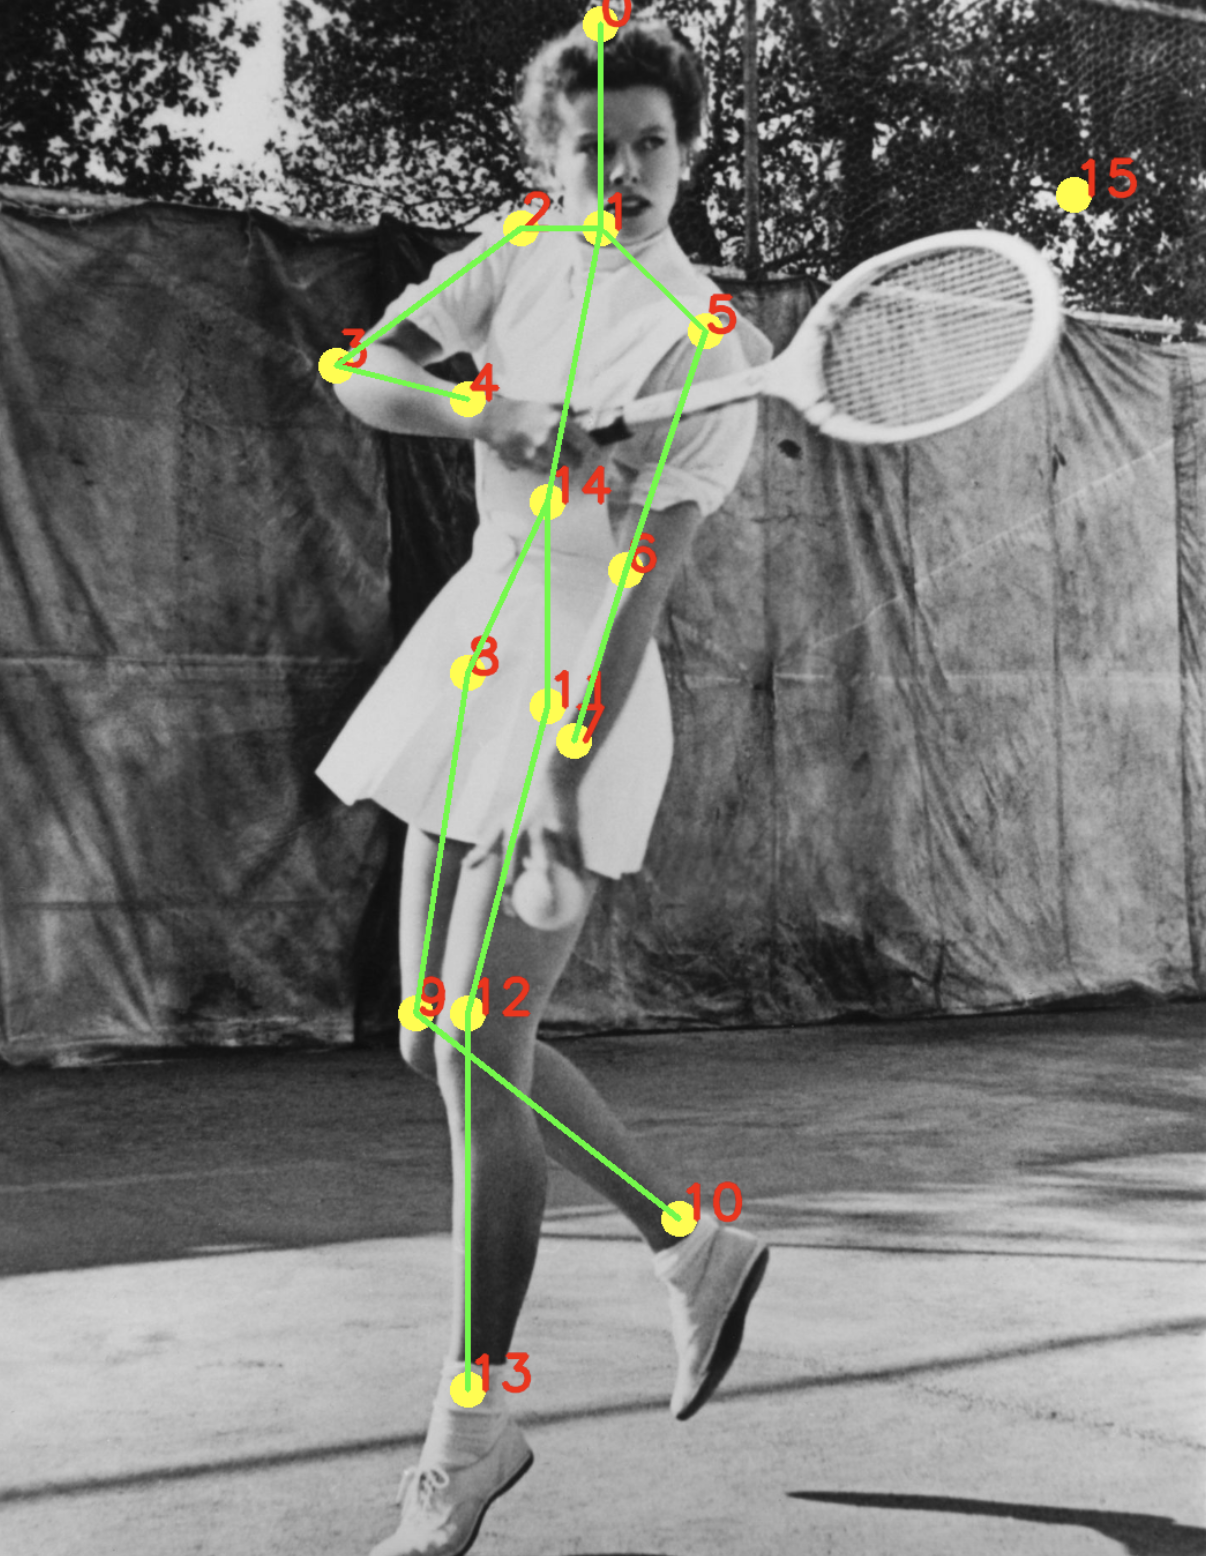
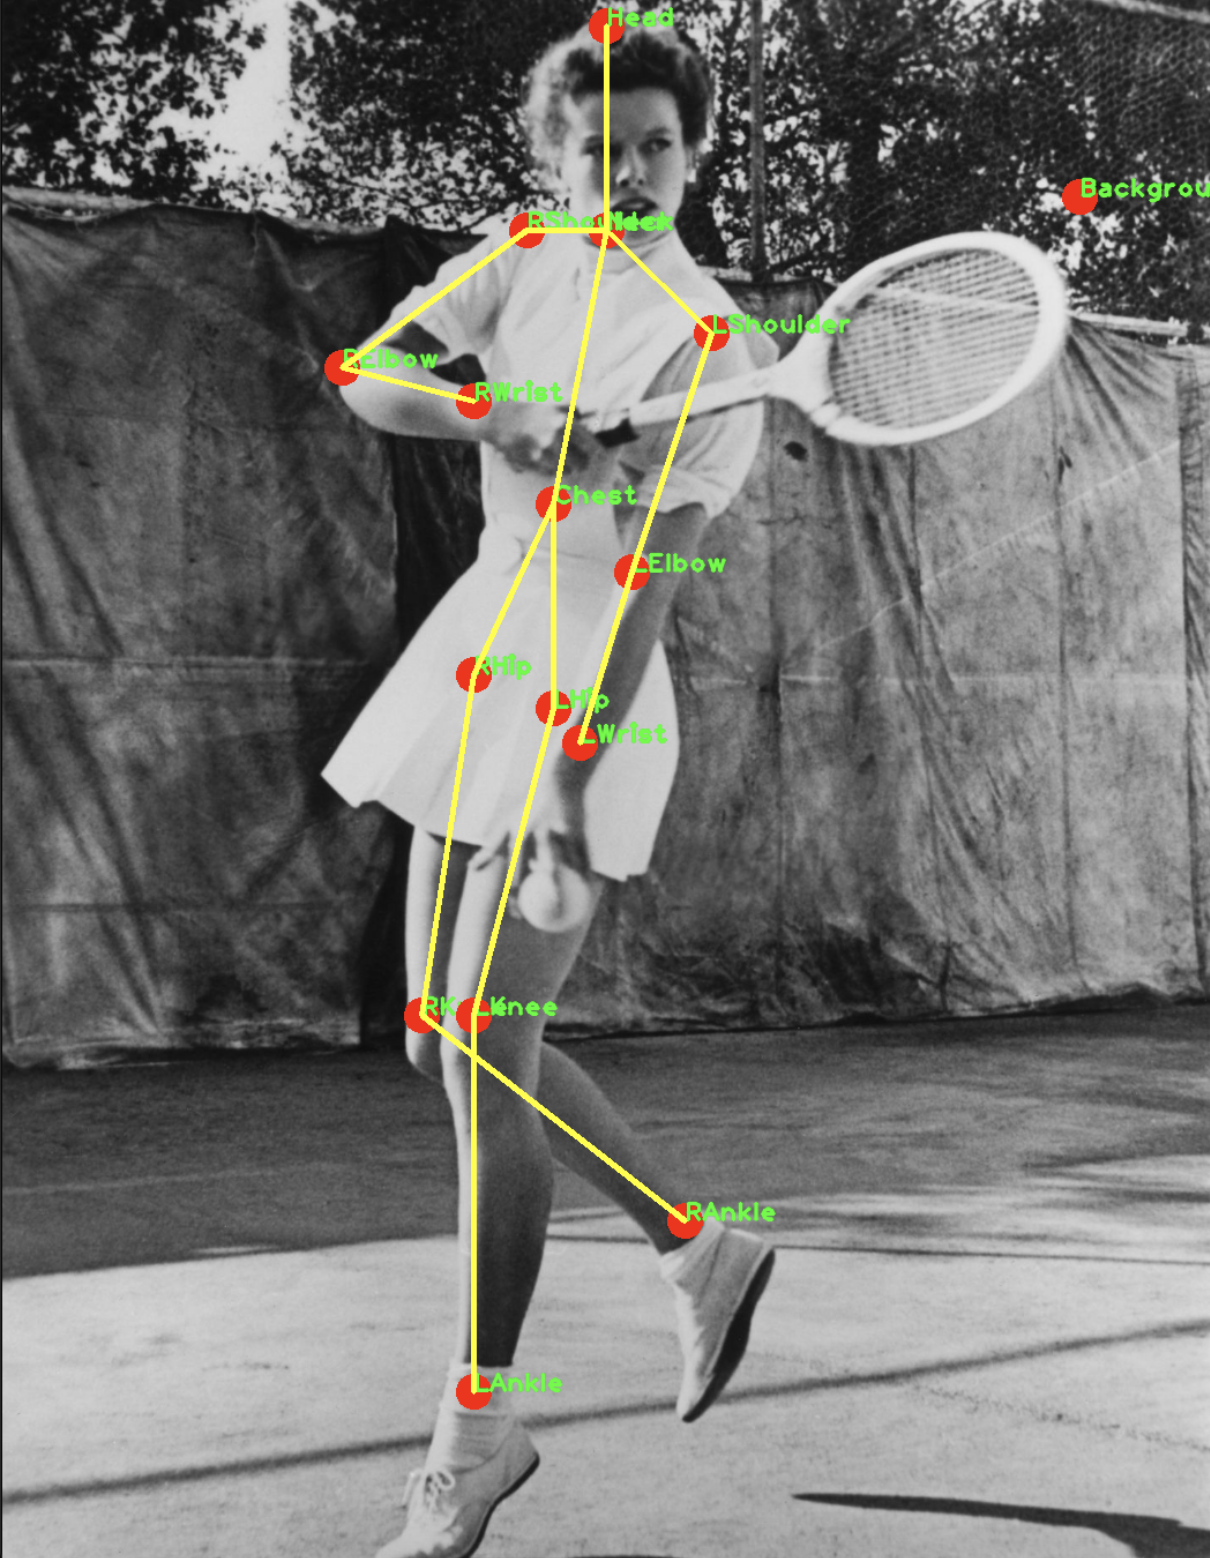
Changed display

diff --git a/sketch_pose.py b/sketch_pose.py
@@ -1,10 +1,8 @@
 from cv2 import cv2
 import sys, os, requests 
 
-PART_DICT = {"Head": 0, "Neck": 1, "RShoulder": 2, "RElbow": 3, "RWrist": 4,
-"LShoulder": 5, "LElbow": 6, "LWrist": 7, "RHip": 8, "RKnee": 9,
-"RAnkle": 10, "LHip": 11, "LKnee": 12, "LAnkle": 13, "Chest": 14,
-"Background": 15}
+#PART_DICT = {"Head": 0, "Neck": 1, "RShoulder": 2, "RElbow": 3, "RWrist": 4, "LShoulder": 5, "LElbow": 6, "LWrist": 7, "RHip": 8, "RKnee": 9, "RAnkle": 10, "LHip": 11, "LKnee": 12, "LAnkle": 13, "Chest": 14, "Background": 15}
+PART_DICT = ['Head', 'Neck', 'RShoulder', 'RElbow', 'RWrist', 'LShoulder', 'LElbow', 'LWrist', 'RHip', 'RKnee', 'RAnkle', 'LHip', 'LKnee', 'LAnkle', 'Chest', 'Background']
 NPOINTS = len(PART_DICT)
 
 POSE_PAIRS = [ ["Head", "Neck"], ["Neck", "RShoulder"], ["RShoulder", "RElbow"],
@@ -23,12 +21,12 @@ IN_WIDTH = 368
 RGB_MEAN = (0, 0, 0)
 
 JOINT_DOT_WIDTH = 15
-JOINT_DOT_COLOR = (0, 255, 255)
-JOINT_TEXT_COLOR = (0, 0, 255)
-JOINT_LINE_COLOR = (0, 255, 0)
+JOINT_DOT_COLOR = (0, 0, 255)
+JOINT_TEXT_COLOR = (0, 255, 0)
+JOINT_LINE_COLOR = (0, 255, 255)
 JOINT_LINE_THICKNESS = 3
-JOINT_FONT_SCALE = 1.4
-JOINT_FONT_THICKNESS = 3
+JOINT_FONT_SCALE = 1.5
+JOINT_FONT_THICKNESS = 2
 
 class Estimator():
     """
@@ -107,12 +105,12 @@ class Estimator():
                 x = points[i][0]
                 y = points[i][1]
                 cv2.circle(img, (x,y), JOINT_DOT_WIDTH, JOINT_DOT_COLOR, thickness=-1, lineType=cv2.FILLED)
-                cv2.putText(img, "{}".format(i), (x,y), cv2.FONT_HERSHEY_SIMPLEX, JOINT_FONT_SCALE, JOINT_TEXT_COLOR, JOINT_FONT_THICKNESS, lineType=cv2.LINE_AA)
+                cv2.putText(img, "{}".format(PART_DICT[i]), (x,y), cv2.FONT_HERSHEY_PLAIN, JOINT_FONT_SCALE, JOINT_TEXT_COLOR, JOINT_FONT_THICKNESS, lineType=cv2.LINE_AA)
 
         #draw lines between points. 
         for pair in POSE_PAIRS:
-            part_ix_1 = PART_DICT[pair[0]]
-            part_ix_2 = PART_DICT[pair[1]]
+            part_ix_1 = PART_DICT.index(pair[0])
+            part_ix_2 = PART_DICT.index(pair[1])
 
             pointA = points[part_ix_1]
             pointB = points[part_ix_2]
